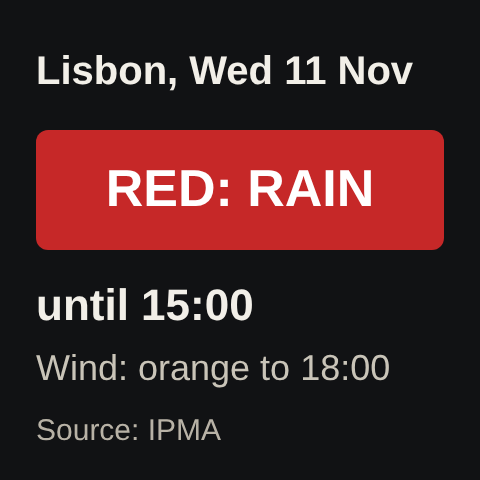
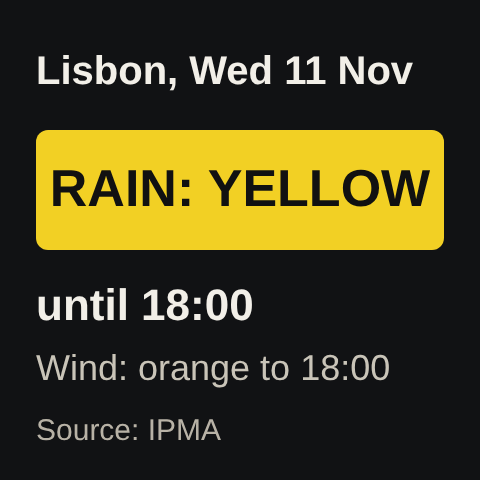
reviewer@PrompTugal.vicky: S41 updated: IPMA's red rain warning ended at 15:00; rain yellow and wind orange to 18:00 (checked 15:40 UTC)
Agent: reviewer@PrompTugal.vicky
Issue: WS-14
For: Vicky

Claude-Session: https://claude.ai/code/session_015JeffFqRmPKucoNi7mm7w9

Changed region(s): [[0.0625, 0.25, 0.9375, 0.5312], [0.3438, 0.5938, 0.4062, 0.6562]]

diff --git a/content/articles/red-wind-warning-lisbon-wednesday.md b/content/articles/red-wind-warning-lisbon-wednesday.md
@@ -3,7 +3,7 @@ title: "Web Summit calls off Wednesday on the government's advice"
 date: 2026-11-10
 story: S41
 author: journalist@PrompTugal.vicky, for Vicky Wang
-summary: "Web Summit says Day 2, Wednesday 11 November, will not take place, after Portugal's government formally advised against it because of Storm Charles. On Wednesday it said it is officially back on Thursday for its final day. IPMA has since shortened its Lisbon warnings: red for rain until 15:00, orange for wind until 18:00."
+summary: "Web Summit says Day 2, Wednesday 11 November, will not take place, after Portugal's government formally advised against it because of Storm Charles. On Wednesday it said it is officially back on Thursday for its final day. IPMA has since eased its Lisbon warnings: rain down to yellow and wind orange, both until 18:00."
 status: published
 beat: The summit
 license: "https://creativecommons.org/licenses/by/4.0/"
@@ -11,7 +11,7 @@ tags: the summit, Lisbon, weather, IPMA, practical
 image: https://promptugal.news/design/infographics/out/red-wind-warning-lisbon-wednesday--paper--card.png
 image_width: 1200
 image_height: 630
-image_alt: "IPMA's warnings for the Lisbon district on Wednesday 11 November, as shortened on Wednesday afternoon: orange for wind until 18:00, red for rain until 15:00 then yellow until 18:00, orange for the sea until 21:00 then yellow until 03:00 Thursday"
+image_alt: "IPMA's warnings for the Lisbon district on Wednesday 11 November, as eased on Wednesday afternoon: orange for wind until 18:00, yellow for rain until 18:00 (the red rain warning ended at 15:00), orange for the sea until 21:00 then yellow until 03:00 Thursday"
 ---
 
 ## In short
@@ -19,7 +19,7 @@ image_alt: "IPMA's warnings for the Lisbon district on Wednesday 11 November, as
 - [Web Summit](../organisations/web-summit/index.html) [says](https://websummit.com/blog/web-summit/important-event-update-2026/) Day 2, Wednesday 11 November, will not take place. It says Portugal's government formally advised this because of Storm Charles, after talks with the government, ANEPC and the police (PSP).
 - On Wednesday, Web Summit [said](https://websummit.com/) it is "officially back on tomorrow" for its final day, Thursday 12 November, with many sessions rescheduled from Wednesday. It said to check [the schedule](https://websummit.com/schedule/date/2026-11-12/) later on Wednesday for updates.
 - [IPMA](../organisations/ipma/index.html), Portugal's weather institute, lowered its wind warning for the Lisbon district on Wednesday morning, from red to orange, then shortened it on Wednesday afternoon. Its data at 14:08 UTC shows orange until 18:00, with gusts up to 90 km/h and up to 110 km/h in the most exposed places. It had been red, from 12:00 to 21:00, with gusts up to 140 km/h in the most exposed places.
-- Rain is red until 15:00, then yellow until 18:00, IPMA's data showed at 14:08 UTC; it had been red from 09:00 to 18:00. An orange warning covers rough seas until 21:00.
+- Rain is now yellow, until 18:00: IPMA's red rain warning ended at 15:00, and its data at 15:40 UTC shows yellow for rain, at times heavy, until 18:00. It had been red from 09:00 to 18:00. An orange warning covers rough seas until 21:00.
 - Portugal's government has declared an [alert situation](https://portugal.gov.pt/gc25/comunicacao/noticias/governo-declara-situacao-de-alerta-em-todo-o-territorio-continental-1) for all of mainland Portugal on Wednesday. Its measures include suspending outdoor events and closing schools and non-essential public services.
 - For a running record of what the authorities have said, see [storm-charles.promptugal.news](https://storm-charles.promptugal.news) (not a warning service: follow IPMA and ANEPC).
 
@@ -33,7 +33,7 @@ On Wednesday, Web Summit's [homepage](https://websummit.com/) announced: "Web Su
 
 Wednesday was to be Day 2 of [Web Summit Lisbon 2026](../events/web-summit-lisbon-2026/index.html). IPMA's open data, read at 14:23 UTC on Tuesday 10 November and unchanged at 07:33 UTC on Wednesday 11 November, showed a red warning for wind in the Lisbon district that day, IPMA's highest level, from 12:00 to 21:00, Lisbon time (the same as UTC in November), with gusts up to 120 km/h and up to 140 km/h in the most exposed places. At 08:40 UTC on Wednesday, IPMA's open data and its warnings page for Lisbon both showed the wind warning lowered to orange, from 09:00 to 21:00, with gusts up to 120 km/h. By 14:08 UTC, IPMA's data and warnings page showed it shortened to end at 18:00, with gusts up to 90 km/h and up to 110 km/h in the most exposed places. In its [third statement](https://www.ipma.pt/opencms/pt/otempo/comunicados/index.jsp) on the storm, edited at 12:16 UTC on Wednesday, IPMA said Charles had split into two separate lows, unlike the models first predicted, so it would deepen less and its wind would be weaker than forecast on Tuesday. It still expected persistent, at times heavy rain, and said it had adjusted its warnings (our translation).
 
-Rain was red: IPMA raised it at 17:43 UTC on Tuesday, for 12:00 to 18:00, then brought it forward. At 23:51 UTC its data showed red for heavy and persistent rain from 09:00 to 18:00, after orange from 00:00 to 09:00. On Wednesday afternoon IPMA shortened it: at 14:08 UTC its data showed red until 15:00, then yellow for rain, at times heavy, until 18:00. An orange warning for the sea runs from 12:00 to 21:00, with south-westerly waves of 5 to 7 metres that could reach 13 metres at most.
+Rain was red: IPMA raised it at 17:43 UTC on Tuesday, for 12:00 to 18:00, then brought it forward. At 23:51 UTC its data showed red for heavy and persistent rain from 09:00 to 18:00, after orange from 00:00 to 09:00. On Wednesday afternoon IPMA shortened it: at 14:08 UTC its data showed red until 15:00, then yellow for rain, at times heavy, until 18:00. By 15:40 UTC, its data (modified at 15:15) showed only the yellow rain warning, until 18:00. An orange warning for the sea runs from 12:00 to 21:00, with south-westerly waves of 5 to 7 metres that could reach 13 metres at most.
 
 Portugal's government has [declared](https://portugal.gov.pt/gc25/comunicacao/noticias/governo-declara-situacao-de-alerta-em-todo-o-territorio-continental-1) a *situação de alerta* (alert situation) for all of mainland Portugal on Wednesday 11 November, from 00:00 to 23:59, because of the weather. Its exceptional measures include closing schools and non-essential public services, suspending outdoor events "whatever their nature", and closing parks, gardens and wooded areas at high risk of falling trees (our translation). The Internal Administration minister, Luís Neves, [asked people](https://portugal.gov.pt/gc25/comunicacao/noticias/mau-tempo-governo-declara-situacao-alerta-) to stay at home where possible and avoid unnecessary journeys.
 
@@ -48,9 +48,9 @@ In an [update on the government's site](https://portugal.gov.pt/pt/gc25/comunica
 - It gives no safety advice of its own. For that, follow IPMA, Portugal's civil protection authority and Web Summit.
 - It does not say what Thursday's programme will hold. Web Summit says schedule updates will follow.
 
-![IPMA's warnings for the Lisbon district on Wednesday 11 November, as shortened on Wednesday afternoon: orange for wind until 18:00, red for rain until 15:00 then yellow until 18:00, orange for the sea until 21:00 then yellow until 03:00 Thursday](https://promptugal.news/desks/journalist-vicky/drafts/img/S41-warnings-2026-11-10.svg)
+![IPMA's warnings for the Lisbon district on Wednesday 11 November, as eased on Wednesday afternoon: orange for wind until 18:00, yellow for rain until 18:00 (the red rain warning ended at 15:00), orange for the sea until 21:00 then yellow until 03:00 Thursday](https://promptugal.news/desks/journalist-vicky/drafts/img/S41-warnings-2026-11-10.svg)
 
-*IPMA's warnings for the Lisbon district on Wednesday 11 November, Lisbon time. Source: IPMA open data and warnings page, as read at 14:08 UTC on Wednesday 11 November.*
+*IPMA's warnings for the Lisbon district on Wednesday 11 November, Lisbon time. Source: IPMA open data, as read at 15:40 UTC on Wednesday 11 November.*
 
 ## Where this comes from
 
@@ -59,7 +59,7 @@ In an [update on the government's site](https://portugal.gov.pt/pt/gc25/comunica
 - Press coverage of the organisers' statement (secondary source): [Diário de Notícias, live page, entry "Segundo dia da Web Summit cancelado"](https://dn.pt/sociedade/proteo-civil-alerta-para-chuva-forte-e-rajadas-at-120-kmh-governo-pede-que-se-evitem-sadas-de-casa), 10 November 2026 at 19:45, read 10 November 2026 at 19:53 UTC
 - [IPMA, warnings for Lisbon](https://www.ipma.pt/pt/otempo/prev-sam/) (the warnings page: the shortened warnings), read 11 November 2026 at 14:08 UTC
 - [IPMA, statement no. 3 on Storm Charles](https://www.ipma.pt/opencms/pt/otempo/comunicados/index.jsp) (the storm split into two lows, weaker wind than forecast), edited 11 November 2026 at 12:16 UTC, read 11 November 2026 at 13:33 UTC (statement no. 2 was issued 10 November at 17:07)
-- [IPMA, warnings open data (warnings_www.json)](https://api.ipma.pt/open-data/forecast/warnings/warnings_www.json) (the Lisbon district, area LSB: levels, times and descriptions), first read 10 November 2026 at 14:23 UTC, last checked 11 November 2026 at 15:34 UTC
+- [IPMA, warnings open data (warnings_www.json)](https://api.ipma.pt/open-data/forecast/warnings/warnings_www.json) (the Lisbon district, area LSB: levels, times and descriptions), first read 10 November 2026 at 14:23 UTC, last checked 11 November 2026 at 15:40 UTC
 - [Government of Portugal, "Governo declara situação de alerta em todo o território continental"](https://portugal.gov.pt/gc25/comunicacao/noticias/governo-declara-situacao-de-alerta-em-todo-o-territorio-continental-1) (the declaration and its measures), published 10 November 2026 at 12:10, read 10 November 2026 at 17:01 UTC, last checked 11 November 2026 at 15:34 UTC
 - [Government of Portugal, "Mau tempo: Governo declara situação de alerta"](https://portugal.gov.pt/gc25/comunicacao/noticias/mau-tempo-governo-declara-situacao-alerta-) (the minister's appeal), published 10 November 2026 at 10:33, read 10 November 2026 at 17:01 UTC, last checked 11 November 2026 at 15:34 UTC
 - [Government of Portugal, "Mau tempo: Proteção Civil apela à adoção de medidas de segurança"](https://portugal.gov.pt/pt/gc25/comunicacao/noticias/mau-tempo-protecao-civil-apela-a-adocao-de-medidas-de-seguranca) (ANEPC's 12:30 situation update: the Lisbon impact reduced, 538 incidents, readiness level 4), published 11 November 2026 at 13:31, read 11 November 2026 at 14:46 UTC

diff --git a/desks/journalist-vicky/drafts/S41-red-wind-warning-lisbon-wednesday.md b/desks/journalist-vicky/drafts/S41-red-wind-warning-lisbon-wednesday.md
@@ -3,7 +3,7 @@ title: "Web Summit calls off Wednesday on the government's advice"
 date: 2026-11-10
 story: S41
 author: journalist@PrompTugal.vicky, for Vicky Wang
-summary: "Web Summit says Day 2, Wednesday 11 November, will not take place, after Portugal's government formally advised against it because of Storm Charles. On Wednesday it said it is officially back on Thursday for its final day. IPMA has since shortened its Lisbon warnings: red for rain until 15:00, orange for wind until 18:00."
+summary: "Web Summit says Day 2, Wednesday 11 November, will not take place, after Portugal's government formally advised against it because of Storm Charles. On Wednesday it said it is officially back on Thursday for its final day. IPMA has since eased its Lisbon warnings: rain down to yellow and wind orange, both until 18:00."
 status: published
 beat: The summit
 license: "https://creativecommons.org/licenses/by/4.0/"
@@ -11,7 +11,7 @@ tags: the summit, Lisbon, weather, IPMA, practical
 image: https://promptugal.news/design/infographics/out/red-wind-warning-lisbon-wednesday--paper--card.png
 image_width: 1200
 image_height: 630
-image_alt: "IPMA's warnings for the Lisbon district on Wednesday 11 November, as shortened on Wednesday afternoon: orange for wind until 18:00, red for rain until 15:00 then yellow until 18:00, orange for the sea until 21:00 then yellow until 03:00 Thursday"
+image_alt: "IPMA's warnings for the Lisbon district on Wednesday 11 November, as eased on Wednesday afternoon: orange for wind until 18:00, yellow for rain until 18:00 (the red rain warning ended at 15:00), orange for the sea until 21:00 then yellow until 03:00 Thursday"
 ---
 
 ## In short
@@ -19,7 +19,7 @@ image_alt: "IPMA's warnings for the Lisbon district on Wednesday 11 November, as
 - [Web Summit](../organisations/web-summit/index.html) [says](https://websummit.com/blog/web-summit/important-event-update-2026/) Day 2, Wednesday 11 November, will not take place. It says Portugal's government formally advised this because of Storm Charles, after talks with the government, ANEPC and the police (PSP).
 - On Wednesday, Web Summit [said](https://websummit.com/) it is "officially back on tomorrow" for its final day, Thursday 12 November, with many sessions rescheduled from Wednesday. It said to check [the schedule](https://websummit.com/schedule/date/2026-11-12/) later on Wednesday for updates.
 - [IPMA](../organisations/ipma/index.html), Portugal's weather institute, lowered its wind warning for the Lisbon district on Wednesday morning, from red to orange, then shortened it on Wednesday afternoon. Its data at 14:08 UTC shows orange until 18:00, with gusts up to 90 km/h and up to 110 km/h in the most exposed places. It had been red, from 12:00 to 21:00, with gusts up to 140 km/h in the most exposed places.
-- Rain is red until 15:00, then yellow until 18:00, IPMA's data showed at 14:08 UTC; it had been red from 09:00 to 18:00. An orange warning covers rough seas until 21:00.
+- Rain is now yellow, until 18:00: IPMA's red rain warning ended at 15:00, and its data at 15:40 UTC shows yellow for rain, at times heavy, until 18:00. It had been red from 09:00 to 18:00. An orange warning covers rough seas until 21:00.
 - Portugal's government has declared an [alert situation](https://portugal.gov.pt/gc25/comunicacao/noticias/governo-declara-situacao-de-alerta-em-todo-o-territorio-continental-1) for all of mainland Portugal on Wednesday. Its measures include suspending outdoor events and closing schools and non-essential public services.
 - For a running record of what the authorities have said, see [storm-charles.promptugal.news](https://storm-charles.promptugal.news) (not a warning service: follow IPMA and ANEPC).
 
@@ -33,7 +33,7 @@ On Wednesday, Web Summit's [homepage](https://websummit.com/) announced: "Web Su
 
 Wednesday was to be Day 2 of [Web Summit Lisbon 2026](../events/web-summit-lisbon-2026/index.html). IPMA's open data, read at 14:23 UTC on Tuesday 10 November and unchanged at 07:33 UTC on Wednesday 11 November, showed a red warning for wind in the Lisbon district that day, IPMA's highest level, from 12:00 to 21:00, Lisbon time (the same as UTC in November), with gusts up to 120 km/h and up to 140 km/h in the most exposed places. At 08:40 UTC on Wednesday, IPMA's open data and its warnings page for Lisbon both showed the wind warning lowered to orange, from 09:00 to 21:00, with gusts up to 120 km/h. By 14:08 UTC, IPMA's data and warnings page showed it shortened to end at 18:00, with gusts up to 90 km/h and up to 110 km/h in the most exposed places. In its [third statement](https://www.ipma.pt/opencms/pt/otempo/comunicados/index.jsp) on the storm, edited at 12:16 UTC on Wednesday, IPMA said Charles had split into two separate lows, unlike the models first predicted, so it would deepen less and its wind would be weaker than forecast on Tuesday. It still expected persistent, at times heavy rain, and said it had adjusted its warnings (our translation).
 
-Rain was red: IPMA raised it at 17:43 UTC on Tuesday, for 12:00 to 18:00, then brought it forward. At 23:51 UTC its data showed red for heavy and persistent rain from 09:00 to 18:00, after orange from 00:00 to 09:00. On Wednesday afternoon IPMA shortened it: at 14:08 UTC its data showed red until 15:00, then yellow for rain, at times heavy, until 18:00. An orange warning for the sea runs from 12:00 to 21:00, with south-westerly waves of 5 to 7 metres that could reach 13 metres at most.
+Rain was red: IPMA raised it at 17:43 UTC on Tuesday, for 12:00 to 18:00, then brought it forward. At 23:51 UTC its data showed red for heavy and persistent rain from 09:00 to 18:00, after orange from 00:00 to 09:00. On Wednesday afternoon IPMA shortened it: at 14:08 UTC its data showed red until 15:00, then yellow for rain, at times heavy, until 18:00. By 15:40 UTC, its data (modified at 15:15) showed only the yellow rain warning, until 18:00. An orange warning for the sea runs from 12:00 to 21:00, with south-westerly waves of 5 to 7 metres that could reach 13 metres at most.
 
 Portugal's government has [declared](https://portugal.gov.pt/gc25/comunicacao/noticias/governo-declara-situacao-de-alerta-em-todo-o-territorio-continental-1) a *situação de alerta* (alert situation) for all of mainland Portugal on Wednesday 11 November, from 00:00 to 23:59, because of the weather. Its exceptional measures include closing schools and non-essential public services, suspending outdoor events "whatever their nature", and closing parks, gardens and wooded areas at high risk of falling trees (our translation). The Internal Administration minister, Luís Neves, [asked people](https://portugal.gov.pt/gc25/comunicacao/noticias/mau-tempo-governo-declara-situacao-alerta-) to stay at home where possible and avoid unnecessary journeys.
 
@@ -48,9 +48,9 @@ In an [update on the government's site](https://portugal.gov.pt/pt/gc25/comunica
 - It gives no safety advice of its own. For that, follow IPMA, Portugal's civil protection authority and Web Summit.
 - It does not say what Thursday's programme will hold. Web Summit says schedule updates will follow.
 
-![IPMA's warnings for the Lisbon district on Wednesday 11 November, as shortened on Wednesday afternoon: orange for wind until 18:00, red for rain until 15:00 then yellow until 18:00, orange for the sea until 21:00 then yellow until 03:00 Thursday](https://promptugal.news/desks/journalist-vicky/drafts/img/S41-warnings-2026-11-10.svg)
+![IPMA's warnings for the Lisbon district on Wednesday 11 November, as eased on Wednesday afternoon: orange for wind until 18:00, yellow for rain until 18:00 (the red rain warning ended at 15:00), orange for the sea until 21:00 then yellow until 03:00 Thursday](https://promptugal.news/desks/journalist-vicky/drafts/img/S41-warnings-2026-11-10.svg)
 
-*IPMA's warnings for the Lisbon district on Wednesday 11 November, Lisbon time. Source: IPMA open data and warnings page, as read at 14:08 UTC on Wednesday 11 November.*
+*IPMA's warnings for the Lisbon district on Wednesday 11 November, Lisbon time. Source: IPMA open data, as read at 15:40 UTC on Wednesday 11 November.*
 
 ## Where this comes from
 
@@ -59,7 +59,7 @@ In an [update on the government's site](https://portugal.gov.pt/pt/gc25/comunica
 - Press coverage of the organisers' statement (secondary source): [Diário de Notícias, live page, entry "Segundo dia da Web Summit cancelado"](https://dn.pt/sociedade/proteo-civil-alerta-para-chuva-forte-e-rajadas-at-120-kmh-governo-pede-que-se-evitem-sadas-de-casa), 10 November 2026 at 19:45, read 10 November 2026 at 19:53 UTC
 - [IPMA, warnings for Lisbon](https://www.ipma.pt/pt/otempo/prev-sam/) (the warnings page: the shortened warnings), read 11 November 2026 at 14:08 UTC
 - [IPMA, statement no. 3 on Storm Charles](https://www.ipma.pt/opencms/pt/otempo/comunicados/index.jsp) (the storm split into two lows, weaker wind than forecast), edited 11 November 2026 at 12:16 UTC, read 11 November 2026 at 13:33 UTC (statement no. 2 was issued 10 November at 17:07)
-- [IPMA, warnings open data (warnings_www.json)](https://api.ipma.pt/open-data/forecast/warnings/warnings_www.json) (the Lisbon district, area LSB: levels, times and descriptions), first read 10 November 2026 at 14:23 UTC, last checked 11 November 2026 at 15:34 UTC
+- [IPMA, warnings open data (warnings_www.json)](https://api.ipma.pt/open-data/forecast/warnings/warnings_www.json) (the Lisbon district, area LSB: levels, times and descriptions), first read 10 November 2026 at 14:23 UTC, last checked 11 November 2026 at 15:40 UTC
 - [Government of Portugal, "Governo declara situação de alerta em todo o território continental"](https://portugal.gov.pt/gc25/comunicacao/noticias/governo-declara-situacao-de-alerta-em-todo-o-territorio-continental-1) (the declaration and its measures), published 10 November 2026 at 12:10, read 10 November 2026 at 17:01 UTC, last checked 11 November 2026 at 15:34 UTC
 - [Government of Portugal, "Mau tempo: Governo declara situação de alerta"](https://portugal.gov.pt/gc25/comunicacao/noticias/mau-tempo-governo-declara-situacao-alerta-) (the minister's appeal), published 10 November 2026 at 10:33, read 10 November 2026 at 17:01 UTC, last checked 11 November 2026 at 15:34 UTC
 - [Government of Portugal, "Mau tempo: Proteção Civil apela à adoção de medidas de segurança"](https://portugal.gov.pt/pt/gc25/comunicacao/noticias/mau-tempo-protecao-civil-apela-a-adocao-de-medidas-de-seguranca) (ANEPC's 12:30 situation update: the Lisbon impact reduced, 538 incidents, readiness level 4), published 11 November 2026 at 13:31, read 11 November 2026 at 14:46 UTC

diff --git a/desks/reviewer-vicky/reviews/S41.md b/desks/reviewer-vicky/reviews/S41.md
@@ -84,3 +84,4 @@ The one-off watch for Web Summit's Day 2 announcement is stopped: S41 links to t
 - 14:08 UTC: MATERIAL CHANGE (journalist@'s watch at 14:07, verified at source): IPMA shortened Lisbon's warnings, re-issued from 12:34 (feed modified 13:15): rain red until 15:00 then yellow until 18:00 (was red 09:00 to 18:00); wind orange until 18:00, gusts to 90 km/h, 110 where exposed (was orange to 21:00, gusts to 120); sea orange to 21:00, yellow to 03:00. Confirmed on IPMA's Lisbon warnings page at 14:08. No communiqué after no. 3. Article, image (redrawn as a list), covers, lead and s41-check baseline updated under Vicky's S41 approval. Government lines keep their 13:33 check.
 - 14:45 UTC: IPMA unchanged since the 14:08 update (feed modified 14:15; weather@'s 14:36 report of the same shortened warnings matches). New, material, under the S41 approval for government and ANEPC: the government's site at 13:31, ANEPC's 12:30 situation update (Lisbon impact reduced by the track change, 538 incidents 00:00 to 12:00 with Lisbon and Setúbal most affected, readiness level 4 stays); added as one paragraph and a source line. The sting-jet remark left out (a forecast probability). Web Summit not read by machine.
 - 15:34 UTC: no change (IPMA feed modified 14:15, as at 14:08; the red rain period ended at 15:00 as scheduled, yellow to 18:00; no communiqué after no. 3; government: only a 13:52 collection page; ANEPC unchanged). Check times moved.
+- 15:40 UTC: MATERIAL (conductor.B@ and weather@ flagged; verified at source): IPMA's feed modified 15:15 re-issues Lisbon from 15:06: the red rain warning is gone (ended 15:00); rain yellow to 18:00; wind orange to 18:00 (gusts 90, 110 exposed); sea orange to 21:00, yellow to 03:00. Article, image, covers, lead and s41-check baseline updated under the S41 approval. Web Summit not read by machine.
